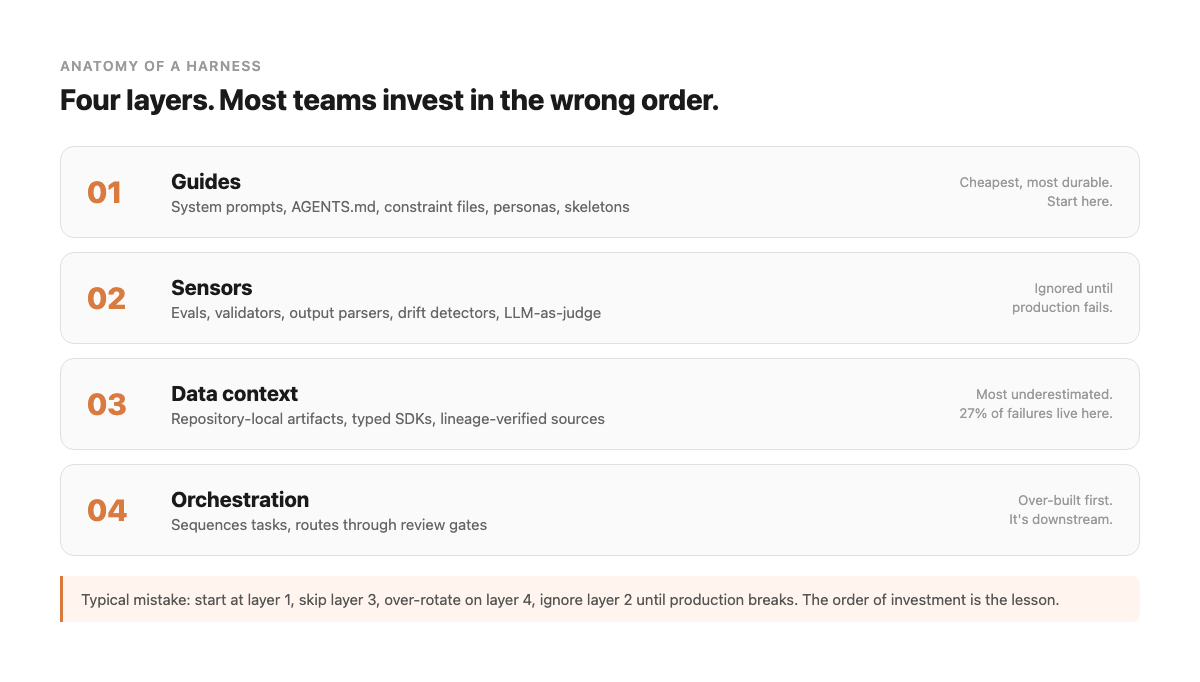
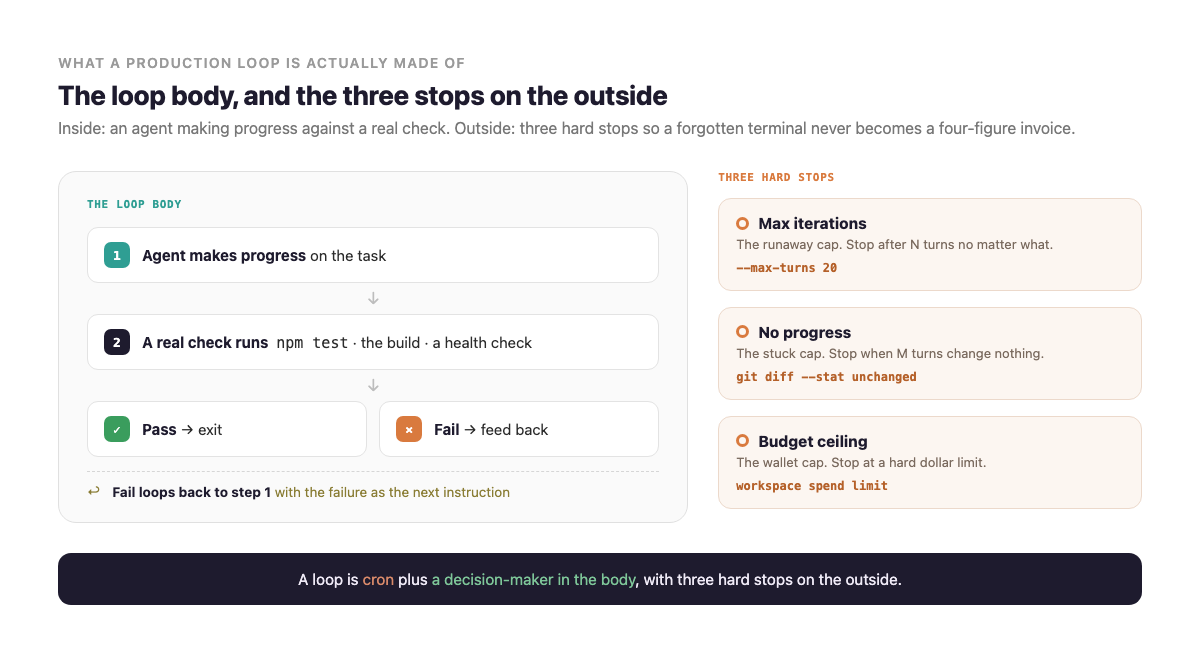
Archive diagram-anatomy.png from content: Production loop anatomy diagram: loop body plus three hard stops

diff --git a/projects/content/INDEX.md b/projects/content/INDEX.md
@@ -235,3 +235,4 @@
 | 2026-06-09 | images | [diagram-cron-vs-loop.png](images/diagram-cron-vs-loop.png) | WTF Is a Loop article (Steinberger vs Cherny, /last30days): diagram-cron-vs-loop.png | /Users/marcokotrotsos/PERSONAL/Content/drafts/wtf-is-a-loop/diagram-cron-vs-loop.png |
 | 2026-06-09 | images | [screenshot-loop.png](images/screenshot-loop.png) | WTF Is a Loop article (Steinberger vs Cherny, /last30days): screenshot-loop.png | /Users/marcokotrotsos/PERSONAL/Content/drafts/wtf-is-a-loop/screenshot-loop.png |
 | 2026-06-09 | reports | [draft.html](reports/draft.html) | WTF Is a Loop practical guide: build a loop this week, /goal /loop self-verify guardrails | /Users/marcokotrotsos/PERSONAL/Content/drafts/wtf-is-a-loop/draft.html |
+| 2026-06-09 | images | [diagram-anatomy.png](images/diagram-anatomy.png) | Production loop anatomy diagram: loop body plus three hard stops | /Users/marcokotrotsos/PERSONAL/Content/drafts/wtf-is-a-loop/diagram-anatomy.png |

diff --git a/INDEX.md b/INDEX.md
@@ -465,3 +465,4 @@
 | 2026-06-09 | content | images | [diagram-cron-vs-loop.png](projects/content/images/diagram-cron-vs-loop.png) | WTF Is a Loop article (Steinberger vs Cherny, /last30days): diagram-cron-vs-loop.png |
 | 2026-06-09 | content | images | [screenshot-loop.png](projects/content/images/screenshot-loop.png) | WTF Is a Loop article (Steinberger vs Cherny, /last30days): screenshot-loop.png |
 | 2026-06-09 | content | reports | [draft.html](projects/content/reports/draft.html) | WTF Is a Loop practical guide: build a loop this week, /goal /loop self-verify guardrails |
+| 2026-06-09 | content | images | [diagram-anatomy.png](projects/content/images/diagram-anatomy.png) | Production loop anatomy diagram: loop body plus three hard stops |
